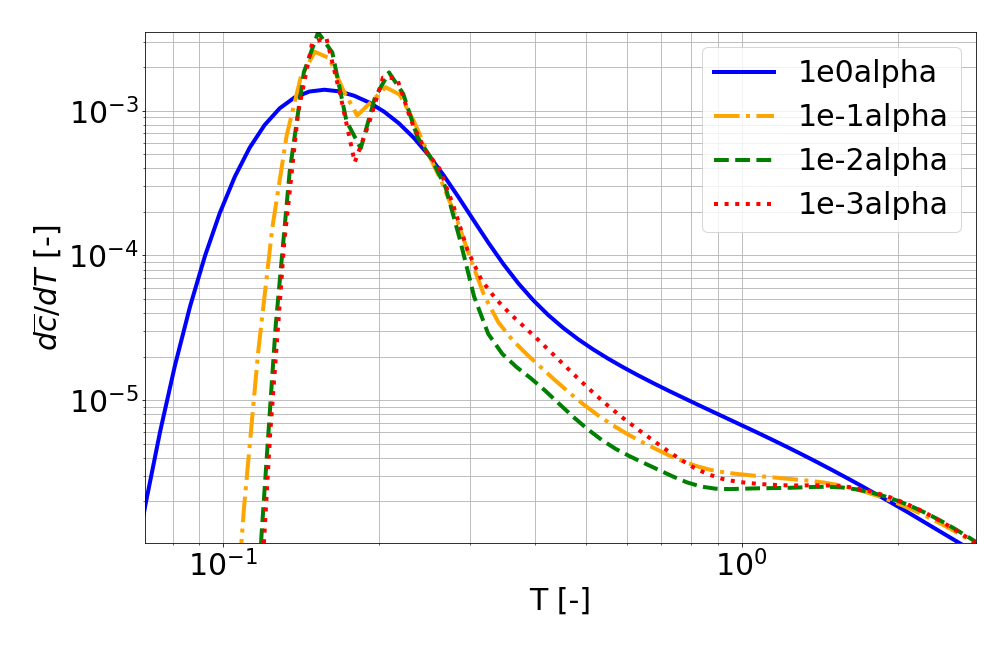
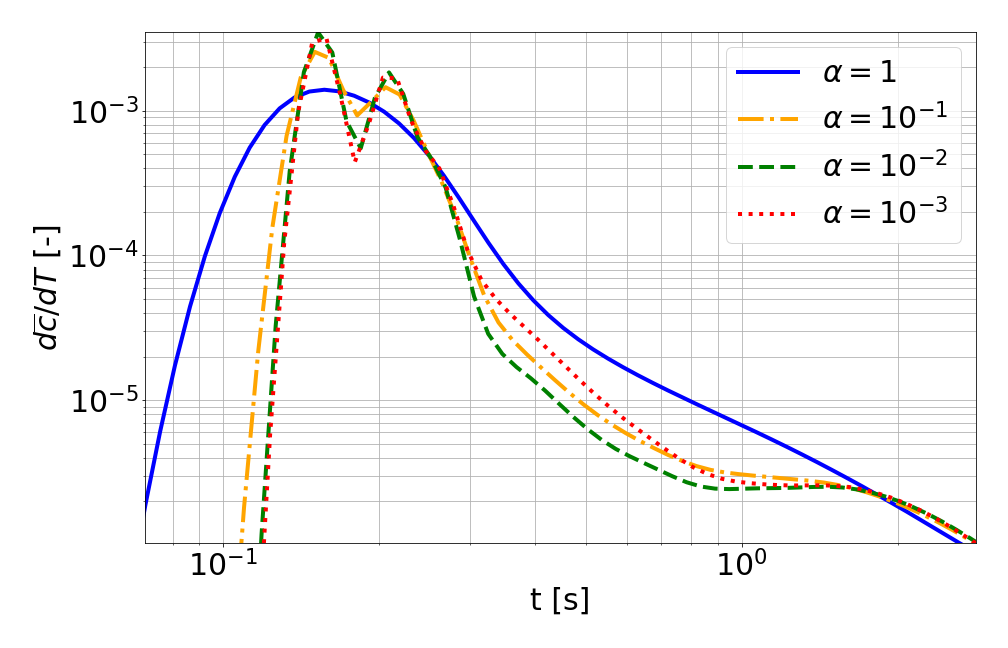
labels fixed

diff --git a/etc/Python/simAnalyser.py b/etc/Python/simAnalyser.py
@@ -19,7 +19,7 @@ from InvGau import invGaussianCDF, invGauVG
 from statistics import mean
 
 # INITIALIZATION ##############################################################
-sim = 3 # Number of simulations to be analysed 
+sim = 4 # Number of simulations to be analysed 
 FS = 1 # Number of the First Simulation to analyse
 interval = 1 # Interval between increasing simulations
 s = 1 # Moving average window size -> smoothness factor
@@ -49,6 +49,29 @@ kvol = []
 kval = []
 n = 1 # Derivative smoothing factor
 
+# LINE STYLES, LEGEND LABELS, LINE COLOURS ####################################
+lin = ['-', '-.', '--', ':', (0, (5, 2, 1, 2)), '-', '-', '-', '-', '-']
+
+# lab = ['stochastic', 'conditioned', 'real']
+# lab = [r'$\alpha=1$', r'$\alpha=10^{-1}$', r'$\alpha=10^{-2}$', r'$\alpha=10^{-3}$']
+lab = [r'$\alpha_L=1$', r'$\alpha_L=10^{-1}$', r'$\alpha_L=10^{-2}$', r'$\alpha_L=10^{-3}$']
+# lab = ['Dm1e-7alpha1e-5', 'Dm1e-8alpha1e-4', 'low Pe', 'medium Pe', 'high Pe']
+# lab = ['local', 'well', 'wall']
+# lab = ['mesh05cm', 'mesh1cm', 'mesh2cm']
+# lab = ['mesh1mm', 'mesh 0.5cm', 'mesh 1cm', 'mesh 2cm']
+# lab = ['TS1', 'TS2', 'TS3', 'TS4', 'TS5', 'TS6', 'TS7', 'TS8', 'TS9', 'TS10']
+# lab = ['Lx = 0.4', 'Lx = 0.6', 'Lx = 0.8', 'Lx = 1.0']
+# lab = ['Low Péclet', 'Medium Péclet', 'High Péclet', 'VarMecDisp']
+# lab = ['Low k contrast', 'High k contrast']
+# lab = ['Dmec = constant', 'Dmec = alpha*V']
+
+col = ['blue', 'orange', 'green', 'red', 'yellow']
+# col = ['0.1', '0.2', '0.3', '0.4', '0.5', '0.6', '0.7', '0.8', '0.9', '1.0']
+# col = ['0.0', '0.3', '0.6', '0.9']
+# col = ['0.3', '0.6', '0.9']
+# col = ['0.15', '0.75']
+# col = ['green', 'red']
+
 # LOOP THROUGH THE SIMULATIONS ################################################    
 for i in range(0, sim, interval):
 # Paths
@@ -72,10 +95,10 @@ for i in range(0, sim, interval):
     # saveFolderPath = Path(os.path.join('/data/pmxep5-8/PGSFlowTransport/tutorials/', simPath))
     # homeFolderPath = Path(os.path.join('/data/pmxep5-8/PGSFlowTransport/tutorials/RESULTS/', simPath))
     
-    simPath = ['realismDegree/Herten7_Stochastic', 'realismDegree/Herten8_Ephesia', 'realismDegree/Herten9_Comunian']
+    # simPath = ['realismDegree/Herten7_Stochastic', 'realismDegree/Herten8_Ephesia', 'realismDegree/Herten9_Comunian']
     # simPath = ['varMecDisp/varMecDisp1e0alpha', 'varMecDisp/varMecDisp1e-1alpha', 'varMecDisp/varMecDisp1e-2alpha', 'varMecDisp/varMecDisp1e-3alpha']
-    # simPath = ['varMecDispTran/varMecDisp1e-1alphaT', 'varMecDispTran/varMecDisp1e-2alphaT', 'varMecDispTran/varMecDisp1e-3alphaT', 'varMecDispTran/varMecDisp1e-4alphaT']
-    # simPath = ['varPeclet/Dm1e-7alpha1e-5/', 'varPeclet/Dm1e-8alpha1e-4/', 'varPeclet/lowPeclet', 'varPeclet/mediumPeclet', 'varPeclet/highPeclet']
+    simPath = ['varMecDispTran/varMecDisp1e-1alphaT', 'varMecDispTran/varMecDisp1e-2alphaT', 'varMecDispTran/varMecDisp1e-3alphaT', 'varMecDispTran/varMecDisp1e-4alphaT']
+    # simPath = ['varPeclet/lowPeclet', 'varPeclet/mediumPeclet', 'varPeclet/highPeclet', 'varPeclet/Dm1e-7alpha1e-5/', 'varPeclet/Dm1e-8alpha1e-4/']
     # simPath = ['injectionArea/localInjection', 'injectionArea/wellInjection', 'injectionArea/wallInjection']
[1 lines of base64/hex data omitted]
     latexFolderPath = Path('/Users/pmxep5/Git/Overleaf/Thesis/')
@@ -202,27 +225,6 @@ plt.rc('font', **font)
 # # plt.show()
 
 plt.figure(figsize=(14, 9))
-lin = ['-', '-.', '--', ':', (0, (5, 2, 1, 2)), '-', '-', '-', '-', '-']
-
-lab = ['stochastic', 'conditioned', 'real']
-# lab = ['1e0alpha', '1e-1alpha', '1e-2alpha', '1e-3alpha']
-# lab = ['1e-1alphaT', '1e-2alphaT', '1e-3alphaT', '1e-4alphaT']
-# lab = ['Dm1e-7alpha1e-5', 'Dm1e-8alpha1e-4', 'low Pe', 'medium Pe', 'high Pe']
-# lab = ['local', 'well', 'wall']
-
-# lab = ['mesh05cm', 'mesh1cm', 'mesh2cm']
-# lab = ['mesh1mm', 'mesh 0.5cm', 'mesh 1cm', 'mesh 2cm']
-# lab = ['TS1', 'TS2', 'TS3', 'TS4', 'TS5', 'TS6', 'TS7', 'TS8', 'TS9', 'TS10']
-# lab = ['Lx = 0.4', 'Lx = 0.6', 'Lx = 0.8', 'Lx = 1.0']
-# lab = ['Low Péclet', 'Medium Péclet', 'High Péclet', 'VarMecDisp']
-# lab = ['Low k contrast', 'High k contrast']
-# lab = ['Dmec = constant', 'Dmec = alpha*V']
-col = ['blue', 'orange', 'green', 'red', 'yellow']
-# col = ['0.1', '0.2', '0.3', '0.4', '0.5', '0.6', '0.7', '0.8', '0.9', '1.0']
-# col = ['0.0', '0.3', '0.6', '0.9']
-# col = ['0.3', '0.6', '0.9']
-# col = ['0.15', '0.75']
-# col = ['green', 'red']
 for j in range(0, sim, interval):
     plt.plot(tLS[j], dcLS[j], ls=lin[j], color="%s" % col[j], lw=4, label="%s" % lab[j])
     plt.axis([0, 2, 0, max(max(dcLS, key=max))+0.05*max(max(dcLS, key=max))])
@@ -267,8 +269,8 @@ os.makedirs(os.path.join(saveFolderPath, "../images"), exist_ok = True)
 # plt.savefig(os.path.join(latexFolderPath, "images/realismDegreeDC.png"))
 # plt.savefig(os.path.join(saveFolderPath, "../images/varMecDispDC.png"))
 # plt.savefig(os.path.join(latexFolderPath, "images/varMecDispDC.png"))
-# plt.savefig(os.path.join(saveFolderPath, "../images/varMecDispTranDC.png"))
-# plt.savefig(os.path.join(latexFolderPath, "images/varMecDispTranDC.png"))
+plt.savefig(os.path.join(saveFolderPath, "../images/varMecDispTranDC.png"))
+plt.savefig(os.path.join(latexFolderPath, "images/varMecDispTranDC.png"))
 # plt.savefig(os.path.join(saveFolderPath, "../images/varPecletDC.png"))
 # plt.savefig(os.path.join(latexFolderPath, "images/varMecPecletDC.png"))
 # plt.savefig(os.path.join(latexFolderPath, "images/injectionAreaDC.png"))
@@ -304,8 +306,8 @@ for j in range(0, sim, interval):
     cThrs.append([(c[j][-1]-val)/c[j][-1] for z, val in enumerate(c[j][:-s]) if cBoolean[z]])
     plt.loglog(tThrs[j], cThrs[j], ls=lin[j], color="%s" % col[j], lw=4, label="%s" % lab[j])
     plt.legend(loc="best", fontsize=30)
-plt.xlabel("t [s]") # Comment line 24 and uncomment line 25 of Process.py
-# plt.xlabel("T [-]") # Comment line 25 and uncomment line 24 of Process.py
+# plt.xlabel("t [s]") # Comment line 24 and uncomment line 25 of Process.py
+plt.xlabel("T [-]") # Comment line 25 and uncomment line 24 of Process.py
 plt.ylabel("$1 - \overline{c} [-]$")
 plt.grid(True, which="both")
 plt.tight_layout()
@@ -315,8 +317,8 @@ plt.axis([min(min(tThrs, key=min)), max(max(tThrs, key=max)), 1e-3, max(max(cThr
 # plt.savefig(os.path.join(latexFolderPath, "images/lowHighCcdf.png"))
 # plt.savefig(os.path.join(saveFolderPath, "../images/HertenBTCdifferentK.png"))
 
-plt.savefig(os.path.join(saveFolderPath, "../images/realismDegreeDimensionalT.png"))
-plt.savefig(os.path.join(latexFolderPath, "images/realismDegreeDimensionalT.png"))
+# plt.savefig(os.path.join(saveFolderPath, "../images/realismDegreeDimensionalT.png"))
+# plt.savefig(os.path.join(latexFolderPath, "images/realismDegreeDimensionalT.png"))
 # plt.savefig(os.path.join(saveFolderPath, "../images/realismDegree.png"))
 # plt.savefig(os.path.join(latexFolderPath, "images/realismDegree.png"))
 # plt.savefig(os.path.join(saveFolderPath, "../images/varMecDisp.png"))

diff --git a/etc/Python/Process.py b/etc/Python/Process.py
@@ -21,8 +21,8 @@ def processConc(path, dd, mvel, c, t, Xbox, s, D, Y, dCnorm, dc, tt, Tadv, tLS, 
     Tadv.append(np.array(tadv))
     T = [val/tadv for j, val in enumerate(t) if cBoolean[j]] # it selects the time only if cBoolean is True
     ndT = [val/tadv for j, val in enumerate(t)]
-    # tt.append(np.array(ndT)) # Non-dimensional times !!
-    tt.append(t) # Dimensional times !!
+    tt.append(np.array(ndT)) # Non-dimensional times !!
+    # tt.append(t) # Dimensional times !!
     
     # CONCENTRATION TIME DERIVATIVE OPTIONS
     sdc = np.array([(c[j+n]-c[j])/(ndT[j+n]-ndT[j]) for j, val in enumerate(c[:-n])]) # Smooth derivative of the concentration every "n" data
